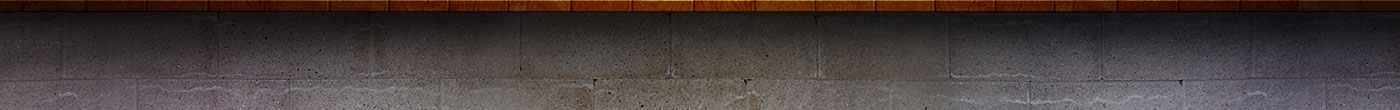
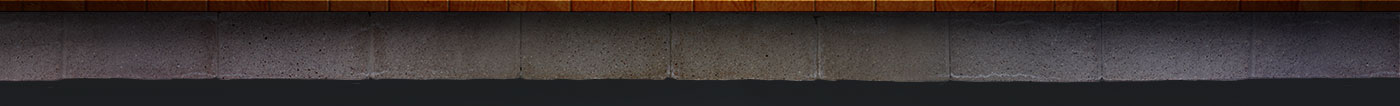
#27 текст на главной странице

diff --git a/templates/start/css/template.css b/templates/start/css/template.css
@@ -247,61 +247,115 @@ ul li
     background: url(../images/img_01.jpg) left top no-repeat;
 }
 
+#page #div2,
+#page #div2_1,
+#page #div2_2,
+#page #div2_3
+{
+    height: 659px;
+}
 #page #div2_1
 {
     width: 319px;
-    height: 659px;
     background: url(../images/img_02.jpg) left top no-repeat;
     float: left;
 }
-
 #page #div2_2
 {
     width: 788px;
-    height: 659px;
     background: url(../images/img_03.jpg) left top no-repeat;
     float: left;
 }
-
 #page #div2_3
 {
     width: 293px;
-    height: 659px;
     float: left;
     background: url(../images/img_04.jpg) left top no-repeat;
 }
 
+
+#page #div3,
+#page #div3_1,
+#page #div3_2,
+#page #div3_3
+{
+    height: 208px;
+}
 #page #div3_1
 {
     width: 319px;
-    height: 208px;
     background: url(../images/img_05.jpg) left top no-repeat;
     float: left;
 }
-
 #page #div3_2
 {
     width: 788px;
-    height: 208px;
     background: url(../images/img_06.jpg) left top no-repeat;
     float: left;
 }
-
 #page #div3_3
 {
     width: 293px;
-    height: 208px;
     float: left;
     background: url(../images/img_07.jpg) left top no-repeat;
 }
 
+
 #page #div4
 {
     width: 1400px;
-    height: 110px;
+}
+#page #div4_1
+{
+    width: 1400px;
+    height: 106px;
     background: url(../images/img_08.jpg) left top no-repeat;
+}
+#page #div4_2
+{
+    width: 1400px;
+    height: 268px;
+    background: url(../images/img_09.jpg) left top no-repeat;
     float: left;
 }
+#page #div4_3
+{
+    width: 1400px;
+    height: 549px;
+    background: url(../images/img_10.png) left top repeat-x;
+    float: left;
+}
+#div4_container
+{
+    position: relative;
+}
+#div4_content
+{
+    position: absolute;
+    width: 770px;
+    text-align: justify;
+    left: 315px;
+    top: 40px;
+}
+
+/**
+ * add to seo editor styles
+ */
+.moduletable_seo_text_main {
+    font-size: 15px;
+    color: #9da3ac;
+}
+.seo-h1-title {
+    color: #b8bdc4;
+}
+.seo-h2 {
+    color: #bfc4cc;
+}
+.seo-h3-signature {
+    color: #d3d7bb;
+}
+
+
 
 #page #footer
 {
@@ -521,7 +575,7 @@ ul li
     height: 60px;
     position: relative;
     left: 131px;
-    top: 40px;
+    top: 32px;
     text-align: center;
 }
 .moduletable_seo_main div
@@ -537,21 +591,6 @@ ul li
     text-transform: lowercase;
     float: left;
     line-height: 1.2em;
-}
-.moduletable_seo_main p.sz20
-{
-    font-size: 20px;
-    margin-top: 0px;
-}
-.moduletable_seo_main p.sz17
-{
-    font-size: 17px;
-    margin-top: 4px;
-}
-.moduletable_seo_main p.sz12
-{
-    font-size: 12px;
-    margin-top: 10px;
 }
 .moduletable_seo_main p a
 {

diff --git a/templates/start/css/editor.css b/templates/start/css/editor.css
@@ -1,0 +1,26 @@
+.seo-h1-title {
+    font-size: 35px;
+    font-style: italic;
+}
+.seo-h2 {
+    font-size: 18px;
+}
+.seo-h3-signature {
+    font-size: 20px;
+    font-style: italic;
+}
+
+p.tag-sz20
+{
+    font-size: 20px;
+    margin-top: 0px;
+}
+p.tag-sz17
+{
+    font-size: 17px;
+    margin-top: 4px;
+}
+p.tag-sz12
+{
+    font-size: 12px;
+    margin-top: 10px;

diff --git a/templates/start/index.php b/templates/start/index.php
@@ -8,6 +8,7 @@
 <jdoc:include type="head" />
 <meta http-equiv="Cache-Control" content="no-cache"/>
 <link rel="stylesheet" href="templates/<?php echo $this->template ?>/css/template.css" type="text/css" />
+<link rel="stylesheet" href="templates/<?php echo $this->template ?>/css/editor.css" type="text/css" />
 <link rel="stylesheet" href="templates/<?php echo $this->template ?>/css/menu.css" type="text/css" />
 <script src="templates/<?php echo $this->template ?>/js/jconfirm/jquery.alerts.js" type="text/javascript"></script>
 <link href="templates/<?php echo $this->template ?>/js/jconfirm/jquery.alerts.css" rel="stylesheet" type="text/css" media="screen" />
@@ -221,7 +222,18 @@
         <div id="div3_3"></div>
     </div>
     <div id="div4">
-        <jdoc:include type="modules" name="seo_footer" style="xhtml" />
+        <div id="div4_1">
+            <jdoc:include type="modules" name="seo_footer_tags" style="xhtml" />
+        </div>
+        <div id='div4_container'>
+            <div id="div4_2">
+            </div>
+            <div id="div4_3">
+            </div>
+            <div id='div4_content'>
+                <jdoc:include type="modules" name="seo_footer_text" style="xhtml" />
+            </div>
+        </div>
     </div>
 
 </div>
